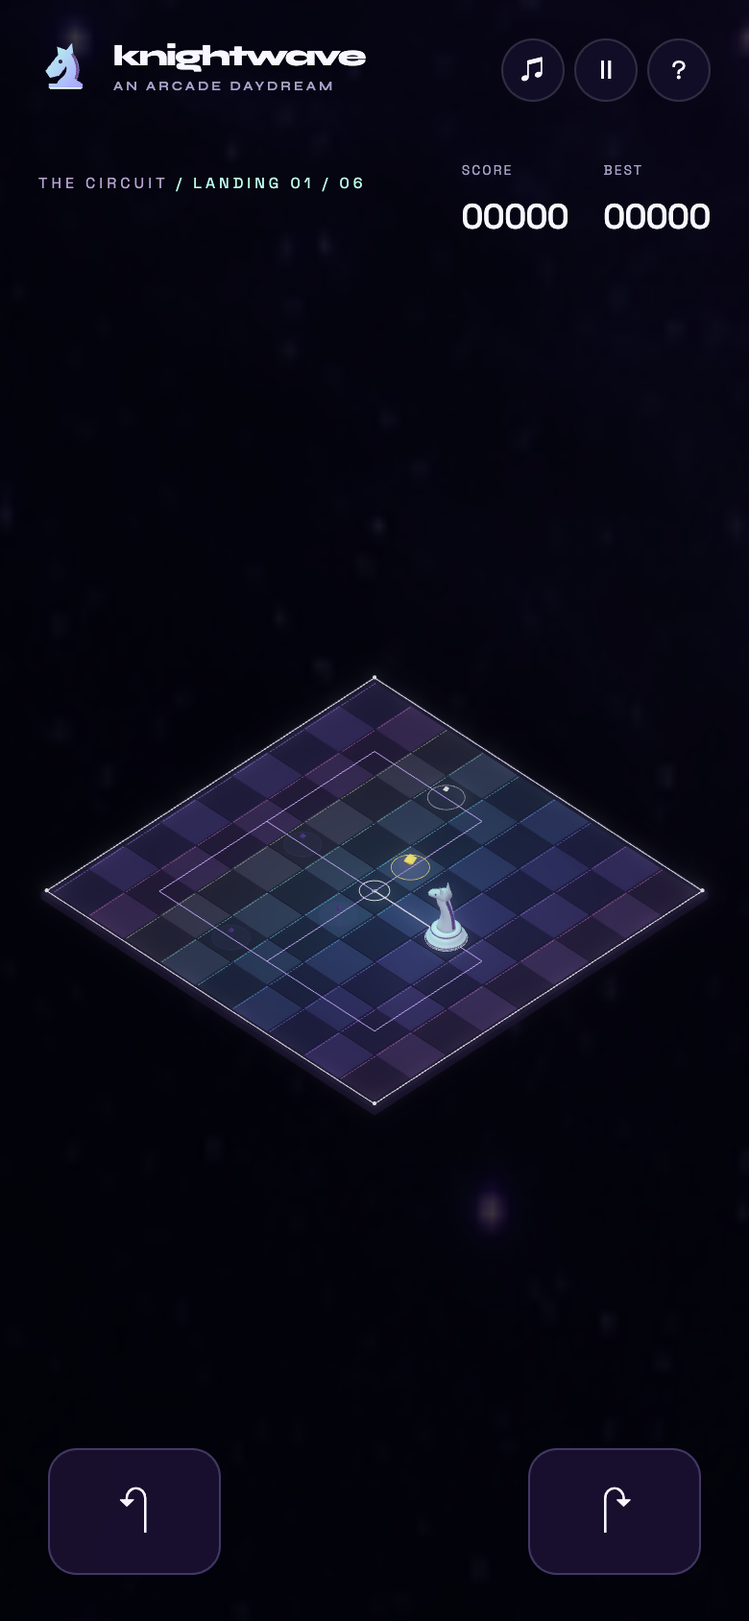
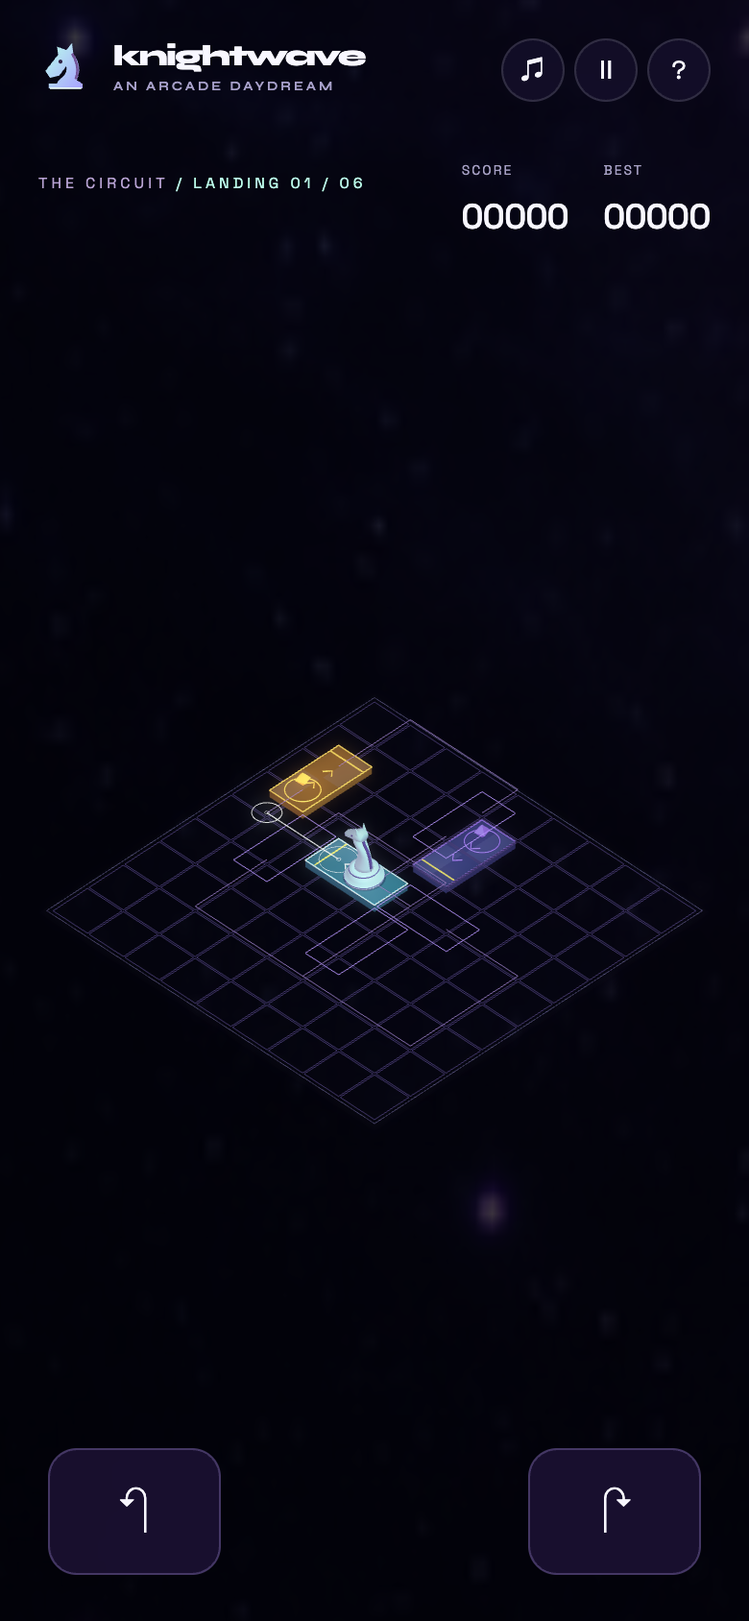
feat(game): restore continuous riding with rising and falling platforms

Changed region(s): [[0.0615, 0.4005, 0.9538, 0.7085]]

diff --git a/src/main.js b/src/main.js
@@ -17,6 +17,7 @@ import { Texture } from '@babylonjs/core/Materials/Textures/texture';
 import { ParticleSystem } from '@babylonjs/core/Particles/particleSystem';
 import { knightDestination, isLandingMatch, flightPoint, flightHeading, rotateGrid } from './rules.js';
 import { BOARD_RADIUS, CELL_SIZE, createCircuit, circuitPath, isOnBoard } from './board.js';
+import { PLATFORM_TOP, CRUISE_SPEED, platformStage, platformPose } from './platforms.js';
 import { Soundtrack } from './audio.js';
 
 const asset=name=>`${import.meta.env.BASE_URL}${name}`;
@@ -111,44 +112,68 @@ jumpSparkles.minEmitPower=2;jumpSparkles.maxEmitPower=5;jumpSparkles.gravity=new
 jumpSparkles.blendMode=ParticleSystem.BLENDMODE_ADD;jumpSparkles.emitRate=0;jumpSparkles.updateSpeed=.012;jumpSparkles.start();
 const burstPieces=[];for(let i=0;i<20;i++){const m=MeshBuilder.CreateSphere('landing sparkle',{diameter:.16,segments:5},scene);m.material=i%2?mint:gold;m.setEnabled(false);burstPieces.push({mesh:m,velocity:new Vector3(),life:0});}
 const circuit=createCircuit();
-let mode='start',phase='ready',current=0,selected=0,jumpTime=0,phaseTime=0,runTime=0,score=0,combo=0,landings=0,visualSpin=0,spinJuice=0,flash=0,airDuration=1.25,tapKick=0,pathRoot=null,lastGuideKey='';
-const READY_TIME=2.25,GROUND=.06;
+let mode='start',phase='cruise',current=0,selected=0,jumpTime=0,phaseTime=0,runTime=0,score=0,combo=0,landings=0,visualSpin=0,spinJuice=0,flash=0,airDuration=1.25,tapKick=0,pathRoot=null,lastGuideKey='',lastLanding=null;
+const GROUND=PLATFORM_TOP+.06;
 let best=0;try{best=Number(localStorage.getItem('knightwave-board-best')||0);}catch{}
 el('best').textContent=String(best).padStart(5,'0');
 const board=new TransformNode('finite chessboard',scene),boardWidth=(BOARD_RADIUS*2+1)*CELL_SIZE;
-const frame=material('board frame','#211933',.14);
-box('floating board',boardWidth+1.2,.65,boardWidth+1.2,0,-.43,0,frame,board);
-const cells=[];
-for(let z=-BOARD_RADIUS;z<=BOARD_RADIUS;z++){
-  const hue=Color3.FromHexString(palette[(z+BOARD_RADIUS)%palette.length]);
-  const light=material('light square '+z,'#332a4b',.12),darkTile=material('dark square '+z,'#211c34',.10);
-  light.diffuseColor=Color3.Lerp(light.diffuseColor,hue,.18);darkTile.diffuseColor=Color3.Lerp(darkTile.diffuseColor,hue,.10);
-  for(let x=-BOARD_RADIUS;x<=BOARD_RADIUS;x++){
-    const tile=box('board square',CELL_SIZE-.09,.17,CELL_SIZE-.09,x*CELL_SIZE,-.085,z*CELL_SIZE,(x+z)%2?light:darkTile,board);
-    tile.metadata={x,z};cells.push(tile);
-    box('rainbow tile edge',CELL_SIZE-.20,.012,.035,x*CELL_SIZE,.014,z*CELL_SIZE+CELL_SIZE*.45,roadMats[(z+BOARD_RADIUS)%7],board);
-  }
+const frame=material('board frame','#29233f',.12);frame.alpha=.08;
+box('floating board',boardWidth+1.2,.25,boardWidth+1.2,0,-2.2,0,frame,board);
+const cells=[],gridLines=[];
+for(let z=-BOARD_RADIUS;z<=BOARD_RADIUS;z++)for(let x=-BOARD_RADIUS;x<=BOARD_RADIUS;x++){
+  cells.push({x,z});const cx=x*CELL_SIZE,cz=z*CELL_SIZE,h=CELL_SIZE*.48;
+  gridLines.push([new Vector3(cx-h,-2,cz-h),new Vector3(cx+h,-2,cz-h),new Vector3(cx+h,-2,cz+h),new Vector3(cx-h,-2,cz+h),new Vector3(cx-h,-2,cz-h)]);
 }
+const grid=MeshBuilder.CreateLineSystem('hollow board squares',{lines:gridLines},scene);grid.color=Color3.FromHexString('#342b46');grid.alpha=.15;grid.parent=board;
+const borderMaterial=material('board boundary','#716487',.3);
 for(const side of [-1,1]){
-  box('rainbow board rail',boardWidth+.6,.06,.055,0,.07,side*(boardWidth/2+.28),side<0?pink:mint,board);
-  box('rainbow board rail',.055,.06,boardWidth+.6,side*(boardWidth/2+.28),.07,0,side<0?pink:mint,board);
-}
-for(const x of [-1,1])for(const z of [-1,1]){
-  const stud=MeshBuilder.CreateSphere('board corner jewel',{diameter:.32,segments:12},scene);stud.position.set(x*(boardWidth/2+.28),.12,z*(boardWidth/2+.28));stud.material=mint;stud.parent=board;
+  box('board boundary',boardWidth+.6,.035,.035,0,-1.98,side*(boardWidth/2+.28),borderMaterial,board);
+  box('board boundary',.035,.035,boardWidth+.6,side*(boardWidth/2+.28),-1.98,0,borderMaterial,board);
 }
 const routeLines=[];
-for(let i=1;i<circuit.length;i++)routeLines.push(circuitPath(circuit[i-1],circuit[i].turns).map(p=>new Vector3(p.x*CELL_SIZE,.028,p.z*CELL_SIZE)));
-const route=MeshBuilder.CreateLineSystem('complete circuit route',{lines:routeLines},scene);route.color=Color3.FromHexString('#b49bd8');route.alpha=.35;route.parent=board;
-const markers=circuit.slice(1).map((stop,i)=>{
-  const root=new TransformNode('landing '+(i+1),scene);root.position.set(stop.x*CELL_SIZE,0,stop.z*CELL_SIZE);root.parent=board;
-  const pad=MeshBuilder.CreateCylinder('landing tile',{diameter:3.1,height:.035,tessellation:48},scene);pad.position.y=.04;pad.material=material('landing surface '+i,'#8b7bba',.10);pad.material.alpha=.18;pad.parent=root;
-  const ring=MeshBuilder.CreateTorus('landing ring',{diameter:2.95,thickness:.055,tessellation:48},scene);ring.position.y=.09;ring.material=gold;ring.parent=root;
-  const crystal=MeshBuilder.CreatePolyhedron('landing crystal',{type:1,size:.30},scene);crystal.position.y=.85;crystal.material=gold;crystal.parent=root;
-  return {root,pad,ring,crystal};
+for(let i=1;i<circuit.length;i++)routeLines.push(circuitPath(circuit[i-1].launch,circuit[i].turns).map(p=>new Vector3(p.x*CELL_SIZE,PLATFORM_TOP+.10,p.z*CELL_SIZE)));
+const route=MeshBuilder.CreateLineSystem('complete circuit route',{lines:routeLines},scene);route.color=Color3.FromHexString('#79628d');route.alpha=.25;route.parent=board;
+const platformMaterials={occupied:material('riding surface','#326371',.3),target:material('amber landing surface','#825124',.35),rising:material('upcoming surface','#3c396a',.3),falling:material('departed surface','#48263c',.15)};
+const fallingAccent=material('departed platform rails','#ae6288',.25);
+const platforms=circuit.map((stop,i)=>{
+  const root=new TransformNode('platform '+i,scene);root.position.set(stop.x*CELL_SIZE,PLATFORM_TOP,stop.z*CELL_SIZE);root.rotation.y=stop.heading;root.parent=board;
+  const length=stop.runLength*CELL_SIZE;
+  const deck=box('raised platform deck',3.7,.68,length+3.7,0,-.34,length/2,platformMaterials.rising,root);
+  const trims=[];
+  for(const side of [-1,1])trims.push(box('platform glow rail',.07,.07,length+3.7,side*1.86,.03,length/2,mint,root));
+  for(const z of [-1.85,length+1.85])trims.push(box('platform end rail',3.78,.07,.075,0,.03,z,mint,root));
+  const chess=material('platform chess inlay '+i,'#cfbeee',.1);chess.alpha=.15;
+  for(let row=0;row<stop.runLength+1;row++)for(let col=0;col<2;col++)if((row+col)%2===0)box('platform chess inlay',1.75,.015,3.6,col? .9:-.9,.012,-1.75+row*CELL_SIZE+1.8,chess,root);
+  const arrows=[];
+  for(let z=1;z<length+.1;z+=2){
+    const chevron=MeshBuilder.CreateTube('forward chevron',{path:[new Vector3(-.50,.055,z-.30),new Vector3(0,.055,z+.28),new Vector3(.50,.055,z-.30)],radius:.065,tessellation:8},scene);chevron.material=mint;chevron.parent=root;arrows.push(chevron);
+  }
+  const line=box('takeoff stripe',3.55,.045,.13,0,.06,length+.9,gold,root);
+  const ring=MeshBuilder.CreateTorus('platform landing ring',{diameter:2.8,thickness:.10,tessellation:48},scene);ring.position.y=.08;ring.material=gold;ring.parent=root;
+  const crystal=MeshBuilder.CreatePolyhedron('landing beacon',{type:1,size:.48},scene);crystal.position.set(0,1.0,0);crystal.material=gold;crystal.parent=root;
+  // Permanent hollow footprints preview platforms while their decks are below the play area.
+  const corners=[[-1.86,-1.86],[1.86,-1.86],[1.86,length+1.86],[-1.86,length+1.86],[-1.86,-1.86]].map(([x,z])=>{const p=rotateGrid({x,z},stop.heading);return new Vector3(stop.x*CELL_SIZE+p.x,PLATFORM_TOP+.06,stop.z*CELL_SIZE+p.z);});
+  const footprint=MeshBuilder.CreateLines('platform footprint '+i,{points:corners},scene);footprint.parent=board;footprint.color=Color3.FromHexString('#9b7fcb');footprint.alpha=.4;
+  return {root,deck,trims,arrows,line,ring,crystal,footprint,stage:null,age:0};
 });
+function updatePlatforms(dt,reset=false){
+  for(let i=0;i<platforms.length;i++){
+    const p=platforms[i],stage=platformStage(i,current);
+    if(reset||stage!==p.stage){p.age=0;p.stage=stage;}else p.age+=dt;
+    const pose=platformPose(stage,p.age);p.root.position.y=pose.height;p.root.rotation.x=pose.tilt;p.root.setEnabled(pose.visible);
+    const active=stage==='target',occupied=stage==='occupied',accent=active?gold:occupied?mint:stage==='falling'?fallingAccent:roadMats[1];
+    p.deck.material=platformMaterials[active?'target':occupied?'occupied':stage==='falling'?'falling':'rising'];
+    for(const mesh of [...p.trims,...p.arrows,p.ring])mesh.material=accent;
+    p.crystal.setEnabled(active||stage==='rising');p.crystal.material=active?gold:roadMats[1];
+    p.crystal.rotation.y+=dt;p.crystal.position.y=1.05+Math.sin(runTime*3+i)*.15;
+    p.ring.setEnabled(!occupied);p.ring.scaling.setAll(active?1+Math.sin(runTime*3)*.04:1);
+    p.footprint.setEnabled(i!==platforms.length-1||current>=3);
+    p.footprint.color=Color3.FromHexString(active?'#ffc45a':occupied?'#8dffe1':'#9b7fcb');p.footprint.alpha=stage==='falling'?.12:active?.85:.35;
+  }
+}
 const landingPreview=MeshBuilder.CreateTorus('your landing preview',{diameter:2.4,thickness:.075,tessellation:48},scene);landingPreview.material=mint;landingPreview.setEnabled(false);
 const launchRing=MeshBuilder.CreateTorus('takeoff countdown',{diameter:3.2,thickness:.045,tessellation:48},scene);launchRing.material=mint;launchRing.position.y=.08;launchRing.setEnabled(false);
-const visitedMaterial=material('completed landing','#75efde',.20),missMaterial=material('missed landing','#ff7fa8',.5);
+const missMaterial=material('missed landing','#ff7fa8',.5);
 function worldCell(cell){return new Vector3(cell.x*CELL_SIZE,GROUND,cell.z*CELL_SIZE);}
 function fitBoardCamera(){
   const width=window.innerWidth,height=window.innerHeight,aspect=width/height,narrow=width<700;
@@ -164,24 +189,13 @@ function fitBoardCamera(){
 }
 function visible(id,on){el(id).classList.toggle('hidden',!on);}
 function setMode(next){mode=next;el('ui').className=mode==='start'?'start-mode':'playing-mode';visible('start-screen',mode==='start');visible('pause',mode==='playing'||mode==='paused');visible('run-label',mode!=='start');visible('touch-controls',mode==='playing');}
-function updateMarkers(){
-  for(let i=0;i<markers.length;i++){
-    const m=markers[i],completed=i<current,active=i===current;
-    m.root.setEnabled(i!==markers.length-1||current>=3);
-    m.ring.material=completed?visitedMaterial:active?gold:i===current+1?mint:purple;
-    m.ring.visibility=completed?.55:active?1:i===current+1?.65:.28;
-    m.pad.material.alpha=active?.36:completed?.16:.08;
-    m.crystal.setEnabled(!completed);m.crystal.material=active?gold:i===current+1?mint:purple;
-    m.crystal.scaling.setAll(active?1.35:.65);
-  }
-}
 function start(){
-  current=0;selected=0;score=0;combo=0;landings=0;runTime=0;jumpTime=0;phaseTime=0;phase='ready';visualSpin=0;
+  current=0;lastLanding=null;selected=0;score=0;combo=0;landings=0;runTime=0;jumpTime=0;phaseTime=0;phase='cruise';visualSpin=0;
   spinner.rotation.set(0,FORWARD_YAW,0);tapKick=0;jumpSparkles.reset();jumpSparkles.start();airDuration=1.25;knight.position.copyFrom(worldCell(circuit[0]));
-  el('score').textContent='00000';visible('modal',false);setMode('playing');audio.start().catch(()=>{});lastGuideKey='';updateGuides();updateMarkers();fitBoardCamera();
+  el('score').textContent='00000';visible('modal',false);setMode('playing');audio.start().catch(()=>{});lastGuideKey='';updateGuides();updatePlatforms(0,true);fitBoardCamera();
 }
 function chosenCell(){
-  const origin=circuit[current],offset=rotateGrid(selected===0?{x:0,z:2}:knightDestination(selected),origin.heading);
+  const origin=circuit[current].launch,offset=rotateGrid(selected===0?{x:0,z:2}:knightDestination(selected),origin.heading);
   return {x:origin.x+offset.x,z:origin.z+offset.z};
 }
 function updateGuides(){
@@ -189,30 +203,30 @@ function updateGuides(){
   el('jump-label').textContent='LANDING '+String(Math.min(landings+1,6)).padStart(2,'0')+' / 06';
   const key=current+':'+selected;if(key===lastGuideKey)return;lastGuideKey=key;
   pathRoot?.dispose(false,false);pathRoot=new TransformNode('selected L route',scene);
-  const origin=circuit[current];
+  const origin=circuit[current].launch;
   const points=selected===0?[origin,{x:origin.x+Math.sin(origin.heading)*2,z:origin.z+Math.cos(origin.heading)*2}]:circuitPath(origin,selected);
-  const line=MeshBuilder.CreateTube('selected knight trace',{path:points.map(p=>new Vector3(p.x*CELL_SIZE,.07,p.z*CELL_SIZE)),radius:.045,tessellation:8},scene);line.material=mint;line.parent=pathRoot;
-  for(const p of points){const dot=MeshBuilder.CreateTorus('L corner',{diameter:.35,thickness:.04,tessellation:24},scene);dot.position.set(p.x*CELL_SIZE,.075,p.z*CELL_SIZE);dot.material=mint;dot.parent=pathRoot;}
-  landingPreview.position.copyFrom(worldCell(chosenCell()));landingPreview.position.y=.10;landingPreview.material=isOnBoard(chosenCell())?mint:missMaterial;landingPreview.setEnabled(true);
+  const line=MeshBuilder.CreateTube('selected knight trace',{path:points.map(p=>new Vector3(p.x*CELL_SIZE,PLATFORM_TOP+.12,p.z*CELL_SIZE)),radius:.045,tessellation:8},scene);line.material=mint;line.parent=pathRoot;
+  for(const p of points){const dot=MeshBuilder.CreateTorus('L corner',{diameter:.35,thickness:.04,tessellation:24},scene);dot.position.set(p.x*CELL_SIZE,PLATFORM_TOP+.13,p.z*CELL_SIZE);dot.material=mint;dot.parent=pathRoot;}
+  landingPreview.position.copyFrom(worldCell(chosenCell()));landingPreview.position.y=PLATFORM_TOP+.14;landingPreview.material=isOnBoard(chosenCell())?mint:missMaterial;landingPreview.setEnabled(true);
 }
 function turn(dir){
-  if(mode!=='playing'||!['ready','air'].includes(phase))return;
+  if(mode!=='playing'||!['cruise','air'].includes(phase))return;
   selected+=dir;spinJuice=1;tapKick=dir*.32;
   if(phase==='air'){visualSpin+=dir*.80;spinner.rotation.y=FORWARD_YAW+circuit[current].heading+visualSpin;}
   else{spinner.rotation.y=FORWARD_YAW+circuit[current].heading+tapKick;spinner.rotation.z=-dir*.12;}
   audio.spin(selected);updateGuides();
   const button=el(dir<0?'left':'right');button.classList.add('pressed');setTimeout(()=>button.classList.remove('pressed'),90);
 }
-knight.position.copyFrom(worldCell(circuit[0]));updateMarkers();fitBoardCamera();
+knight.position.copyFrom(worldCell(circuit[0]));updatePlatforms(0,true);fitBoardCamera();
 function modal(content){el('modal').innerHTML=`<div class="dialog" role="dialog" aria-modal="true" aria-labelledby="dialog-title">${content}</div>`;visible('modal',true);el('modal').querySelector('button')?.focus();}
 function pause(){if(mode==='playing'){setMode('paused');audio.stop();modal('<div class="eyebrow">TAKE A BREATHER</div><h2 id="dialog-title">Still in the groove.</h2><p>Your circuit will be right here.</p><button class="primary" id="resume">Keep riding <span>↗</span></button><button class="secondary" id="restart">Start a fresh run</button>');el('resume').onclick=resume;el('restart').onclick=start;}else if(mode==='paused')resume();}
 function resume(){visible('modal',false);setMode('playing');audio.start().catch(()=>{});el('world').focus();}
 function help(){const previous=mode;if(mode==='playing'){setMode('paused');audio.stop();}
-  modal('<div class="eyebrow">A KNIGHT TO REMEMBER</div><h2 id="dialog-title">Plan the whole loop.</h2><div class="how-steps"><span class="number">1</span><p>The whole board stays in view. Reach the gold landing, then follow the next glowing tiles back home.</p></div><div class="how-steps"><span class="number">2</span><p>Jumps launch automatically after a short planning beat. Tap ← or → to choose your next move. On your phone, tap the left or right half of the play area.</p></div><div class="how-steps"><span class="number">3</span><p>Each tap chains a rotated L: two squares forward, one across. The mint route and ring preview your jump. Four taps make a loop.</p></div><div class="how-steps"><span class="number">4</span><p>You can keep tapping in midair. An opposite tap undoes a turn. The mint marker shows your landing.</p></div><button class="primary" id="close-help">Got it <span>↗</span></button>');el('close-help').onclick=()=>{visible('modal',false);if(previous==='playing')resume();};}
+  modal('<div class="eyebrow">A KNIGHT TO REMEMBER</div><h2 id="dialog-title">Plan the whole loop.</h2><div class="how-steps"><span class="number">1</span><p>The whole board stays in view. Ride the raised platforms. The amber deck is your next landing; purple outlines show platforms still to come.</p></div><div class="how-steps"><span class="number">2</span><p>The knight moves forward continuously and jumps at each platform edge. New platforms rise ahead, and old ones fall behind. Tap ← or → to choose your next move. On your phone, tap the left or right half of the play area.</p></div><div class="how-steps"><span class="number">3</span><p>Each tap chains a rotated L: two squares forward, one across. The mint route and ring preview your jump. Four taps make a loop.</p></div><div class="how-steps"><span class="number">4</span><p>You can keep tapping in midair. An opposite tap undoes a turn. The mint marker shows your landing.</p></div><button class="primary" id="close-help">Got it <span>↗</span></button>');el('close-help').onclick=()=>{visible('modal',false);if(previous==='playing')resume();};}
 function finish(won=false){
   setMode(won?'won':'over');jumpSparkles.emitRate=0;landingPreview.setEnabled(false);launchRing.setEnabled(false);pathRoot?.setEnabled(false);
   if(score>best){best=score;try{localStorage.setItem('knightwave-board-best',String(best));}catch{}el('best').textContent=String(best).padStart(5,'0');}
-  modal(`<div class="eyebrow">${won?'A PERFECT LITTLE LOOP':'THE BOARD WILL WAIT'}</div><h2 id="dialog-title">${won?'Circuit complete.':'One more circuit?'}</h2><p>${won?'Six landings, all the way home. You found your flow.':'Follow the gold tile. Use the mint L to plan your landing, and correct your turn before touchdown.'}</p><div class="dialog-stats"><div><strong>${score}</strong><small>YOUR SCORE</small></div><div><strong>${landings} / 6</strong><small>LANDINGS</small></div></div><button class="primary" id="again">Ride again <span>↗</span></button>`);el('again').onclick=start;
+  modal(`<div class="eyebrow">${won?'A PERFECT LITTLE LOOP':'THE BOARD WILL WAIT'}</div><h2 id="dialog-title">${won?'Circuit complete.':'One more circuit?'}</h2><p>${won?'Six landings, all the way home. You found your flow.':'Aim for the amber platform. Follow the mint L and correct your turn before touchdown.'}</p><div class="dialog-stats"><div><strong>${score}</strong><small>YOUR SCORE</small></div><div><strong>${landings} / 6</strong><small>LANDINGS</small></div></div><button class="primary" id="again">Ride again <span>↗</span></button>`);el('again').onclick=start;
 }
 el('start').onclick=start;el('help').onclick=help;el('pause').onclick=pause;
 function mute(){el('sound').textContent=audio.mute()?'♪̸':'♫';el('sound').setAttribute('aria-label',audio.muted?'Unmute soundtrack':'Mute soundtrack');el('sound').setAttribute('aria-pressed',String(audio.muted));}
@@ -231,39 +245,46 @@ function update(dt){
   if(mode==='playing'){
     runTime+=dt;phaseTime+=dt;spinJuice=Math.max(0,spinJuice-dt*4);tapKick*=Math.exp(-dt*14);
     const origin=circuit[current];
-    if(phase==='ready'){
-      knight.position.y=GROUND;spinner.rotation.y=FORWARD_YAW+origin.heading+tapKick;spinner.rotation.z=-tapKick*.25;spinner.rotation.x=0;
-      launchRing.setEnabled(true);launchRing.position.copyFrom(knight.position);launchRing.position.y=.09;launchRing.scaling.setAll(.65+.45*(1-Math.min(1,phaseTime/READY_TIME)));
-      if(phaseTime>=READY_TIME){phase='air';jumpTime=0;airDuration=1.25+.30*(Math.abs(circuit[current+1].turns)-1);phaseTime=0;visualSpin=0;burst();launchRing.setEnabled(false);}
+    if(phase==='cruise'){
+      const distance=Math.min(origin.runLength*CELL_SIZE,phaseTime*CRUISE_SPEED),offset=rotateGrid({x:0,z:distance},origin.heading);
+      knight.position.set(origin.x*CELL_SIZE+offset.x,GROUND+Math.sin(distance*2.6)*.025,origin.z*CELL_SIZE+offset.z);
+      spinner.rotation.y=FORWARD_YAW+origin.heading+tapKick;spinner.rotation.z=-tapKick*.25;spinner.rotation.x=-.06+Math.sin(distance*2.6)*.035;
+      launchRing.setEnabled(true);launchRing.position.copyFrom(worldCell(origin.launch));launchRing.position.y=PLATFORM_TOP+.1;launchRing.scaling.setAll(.65+.45*(1-Math.min(1,phaseTime*CRUISE_SPEED/(circuit[current].runLength*CELL_SIZE))));
+      if(distance>=origin.runLength*CELL_SIZE){phase='air';jumpTime=0;airDuration=1.25+.30*(Math.abs(circuit[current+1].turns)-1);phaseTime=0;visualSpin=0;burst();launchRing.setEnabled(false);}
     }else if(phase==='air'){
       jumpTime+=dt;const t=Math.min(1,jumpTime/airDuration),p=rotateGrid(flightPoint(selected,t),origin.heading);
-      knight.position.x=(origin.x+p.x)*CELL_SIZE;knight.position.z=(origin.z+p.z)*CELL_SIZE;
+      knight.position.x=(origin.launch.x+p.x)*CELL_SIZE;knight.position.z=(origin.launch.z+p.z)*CELL_SIZE;
       knight.position.y=GROUND+Math.sin(t*Math.PI)*3.0;
       visualSpin+=wrapAngle(flightHeading(selected,t)-visualSpin)*(1-Math.exp(-dt*24));spinner.rotation.y=FORWARD_YAW+origin.heading+visualSpin;
       spinner.rotation.z=Math.sin(t*Math.PI)*.08*Math.sign(selected);spinner.rotation.x=Math.sin(t*Math.PI)*.12;
       if(t===1){
         knight.position.copyFrom(worldCell(chosenCell()));
         if(isLandingMatch(selected,circuit[current+1].turns)){
-          current++;landings++;combo++;score+=100+combo*25+Math.abs(selected)*10;el('score').textContent=String(score).padStart(5,'0');
-          burst();flash=1;audio.land(combo);selected=0;visualSpin=0;spinner.rotation.set(0,FORWARD_YAW+circuit[current].heading,0);updateMarkers();
+          lastLanding={x:knight.position.x,y:knight.position.y,z:knight.position.z};current++;landings++;combo++;score+=100+combo*25+Math.abs(selected)*10;el('score').textContent=String(score).padStart(5,'0');
+          burst();flash=1;audio.land(combo);selected=0;visualSpin=0;spinner.rotation.set(0,FORWARD_YAW+circuit[current].heading,0);updatePlatforms(0);
           if(current===circuit.length-1){finish(true);}
-          else{phase='ready';phaseTime=0;lastGuideKey='';updateGuides();}
-        }else{phase=isOnBoard(chosenCell())?'miss':'fall';phaseTime=0;audio.fall();landingPreview.material=missMaterial;pathRoot?.setEnabled(false);}
+          else{phase='cruise';phaseTime=0;lastGuideKey='';updateGuides();}
+        }else{phase='fall';phaseTime=0;audio.fall();landingPreview.material=missMaterial;pathRoot?.setEnabled(false);}
       }
-    }else if(phase==='miss'){spinner.rotation.z*=Math.exp(-dt*8);if(phaseTime>.65)finish();}
-    else if(phase==='fall'){knight.position.y-=dt*(6+phaseTime*12);if(phaseTime>.70)finish();}
+    }else if(phase==='fall'){knight.position.y-=dt*(6+phaseTime*12);if(phaseTime>.70)finish();}
   }
-  if(mode==='playing'||mode==='start'){
+  if(mode==='playing'||mode==='start'||mode==='won'){
+    updatePlatforms(dt);
     glow.intensity=.43+audio.pulse*.10;
-    shadow.position.set(knight.position.x,.012,knight.position.z);shadow.scaling.setAll(Math.max(.6,1.55-(knight.position.y-GROUND)*.10));shadow.setEnabled(isOnBoard({x:knight.position.x/CELL_SIZE,z:knight.position.z/CELL_SIZE}));
-    for(let i=0;i<markers.length;i++){const m=markers[i];m.crystal.rotation.y+=dt*.65;m.crystal.position.y=.85+Math.sin(runTime*2+i)*.12;m.ring.scaling.setAll(i===current?1+Math.sin(runTime*3)*.04:1);}
+    shadow.position.set(knight.position.x,PLATFORM_TOP+.018,knight.position.z);shadow.scaling.setAll(Math.max(.6,1.55-(knight.position.y-GROUND)*.10));
+    shadow.setEnabled(phase!=='fall'&&platforms.some((p,i)=>{
+      if(!p.root.isEnabled()||p.stage==='falling'||p.root.position.y<PLATFORM_TOP-.1)return false;
+      const stop=circuit[i],local=rotateGrid({x:knight.position.x-stop.x*CELL_SIZE,z:knight.position.z-stop.z*CELL_SIZE},-stop.heading);
+      return Math.abs(local.x)<1.85&&local.z>-1.85&&local.z<stop.runLength*CELL_SIZE+1.85;
+    }));
+
     for(const p of burstPieces){if(p.life>0){p.life-=dt;p.mesh.position.addInPlace(p.velocity.scale(dt));p.velocity.y-=dt*12;p.mesh.scaling.setAll(Math.max(0,p.life/.6));if(p.life<=0)p.mesh.setEnabled(false);}}
     flash=Math.max(0,flash-dt*3.5);el('flash').style.opacity=flash*.35;
   }
 }
 engine.runRenderLoop(()=>{update(Math.min(engine.getDeltaTime()/1000,.05));scene.render();});
 scene.executeWhenReady(()=>{visible('loading',false);});
-const state=()=>({mode,phase,selected,target:circuit[current+1]?.turns,jump:landings+1,score,combo,landings,totalLandings:circuit.length-1,position:{x:knight.position.x,y:knight.position.y,z:knight.position.z},planning:Math.min(1,phaseTime/READY_TIME),airtime:jumpTime/airDuration,audio:{state:audio.ctx?.state,muted:audio.muted,steps:audio.step},fps:Math.round(engine.getFps()),meshes:scene.meshes.length,cellSize:CELL_SIZE,board:{radius:BOARD_RADIUS,cells:cells.length,extent:boardWidth/2},heading:circuit[current]?.heading,landingHeading:circuit[current+1]?.heading,launch:{x:circuit[current].x*CELL_SIZE,z:circuit[current].z*CELL_SIZE},landing:circuit[current+1]?{x:circuit[current+1].x*CELL_SIZE,z:circuit[current+1].z*CELL_SIZE}:null,render:{width:engine.getRenderWidth(),height:engine.getRenderHeight()},camera:{x:camera.position.x,y:camera.position.y,z:camera.position.z,rotation:{x:camera.rotation.x,y:camera.rotation.y,z:camera.rotation.z},orthographic:camera.mode===Camera.ORTHOGRAPHIC_CAMERA},knightYaw:spinner.rotation.y,sparkles:jumpSparkles.getActiveCount()});
+const state=()=>({mode,phase,selected,target:circuit[current+1]?.turns,jump:landings+1,score,combo,landings,totalLandings:circuit.length-1,lastLanding,position:{x:knight.position.x,y:knight.position.y,z:knight.position.z},planning:Math.min(1,phaseTime*CRUISE_SPEED/(circuit[current].runLength*CELL_SIZE)),airtime:jumpTime/airDuration,audio:{state:audio.ctx?.state,muted:audio.muted,steps:audio.step},fps:Math.round(engine.getFps()),meshes:scene.meshes.length,cellSize:CELL_SIZE,board:{radius:BOARD_RADIUS,cells:cells.length,extent:boardWidth/2},heading:circuit[current]?.heading,landingHeading:circuit[current+1]?.heading,launch:{x:circuit[current].launch.x*CELL_SIZE,z:circuit[current].launch.z*CELL_SIZE},landing:circuit[current+1]?{x:circuit[current+1].x*CELL_SIZE,z:circuit[current+1].z*CELL_SIZE}:null,render:{width:engine.getRenderWidth(),height:engine.getRenderHeight()},platforms:platforms.map((p,i)=>({index:i,stage:p.stage,height:p.root.position.y,visible:p.root.isEnabled()})),speed:CRUISE_SPEED,camera:{x:camera.position.x,y:camera.position.y,z:camera.position.z,rotation:{x:camera.rotation.x,y:camera.rotation.y,z:camera.rotation.z},orthographic:camera.mode===Camera.ORTHOGRAPHIC_CAMERA},knightYaw:spinner.rotation.y,sparkles:jumpSparkles.getActiveCount()});
 // Observability for playtesting; actions are the same as keyboard and touch.
 window.knightwave={state,start,turn,pause,resume,mute,engine,scene};
 if(document.modelContext?.registerTool){

diff --git a/src/board.test.js b/src/board.test.js
@@ -5,21 +5,29 @@ import {flightPoint, rotateGrid} from './rules.js';
 
 test('six chained jumps form a closed circuit with the original facing',()=>{
   const stops=createCircuit();
-  assert.deepEqual(stops.map(p=>p.turns),[0,1,-1,-2,2,3,-3]);
+  assert.deepEqual(stops.map(p=>p.turns),[0,1,2,-1,3,-2,-3]);
   assert.deepEqual([stops.at(-1).x,stops.at(-1).z],[stops[0].x,stops[0].z]);
   assert.equal(stops.at(-1).heading,stops[0].heading);
 });
 test('every landing and intermediate L leg stays inside the finite board',()=>{
   const stops=createCircuit();
   for(let i=1;i<stops.length;i++){
-    const start=stops[i-1],end=stops[i],path=circuitPath(start,end.turns);
+    const start=stops[i-1],end=stops[i],path=circuitPath(start.launch,end.turns);
     assert.deepEqual(path.at(-1),{x:end.x,z:end.z});
-    for(const p of path)assert.ok(isOnBoard(p));
+    for(const p of [start,start.launch,...path])assert.ok(isOnBoard(p));
     for(let frame=0;frame<=100;frame++){
       const offset=rotateGrid(flightPoint(end.turns,frame/100),start.heading);
-      assert.ok(isOnBoard({x:start.x+offset.x,z:start.z+offset.z}));
+      assert.ok(isOnBoard({x:start.launch.x+offset.x,z:start.launch.z+offset.z}));
     }
   }
   assert.ok(isOnBoard({x:BOARD_RADIUS,z:-BOARD_RADIUS}));
   assert.ok(!isOnBoard({x:BOARD_RADIUS+.01,z:0}));
+});
+
+test('raised runways do not intersect while upcoming platforms rise',()=>{
+  const rectangles=createCircuit().slice(0,-1).map(p=>({left:Math.min(p.x,p.launch.x)-.4625,right:Math.max(p.x,p.launch.x)+.4625,bottom:Math.min(p.z,p.launch.z)-.4625,top:Math.max(p.z,p.launch.z)+.4625}));
+  for(let i=0;i<rectangles.length;i++)for(const b of rectangles.slice(0,i)){
+    const a=rectangles[i];
+    assert.ok(!(a.left<b.right&&a.right>b.left&&a.bottom<b.top&&a.top>b.bottom));
+  }
 });

diff --git a/src/board.js b/src/board.js
@@ -2,26 +2,27 @@ import {knightPath,rotateGrid,roadLanding} from './rules.js';
 
 export const BOARD_RADIUS=4;
 export const CELL_SIZE=4;
-export const CIRCUIT_TURNS=[1,-1,-2,2,3,-3];
-
-// A closed circuit whose landings AND every L-shaped leg fit on the board.
+export const CIRCUIT_TURNS=[1,2,-1,3,-2,-3];
+// Every platform has a one-square run-up; the raised decks never intersect.
 export function createCircuit(){
-  const stops=[{x:0,z:-2,heading:0,turns:0}];
-  for(const turns of CIRCUIT_TURNS){
-    const previous=stops.at(-1);
-    const next=roadLanding({end:previous,heading:previous.heading},turns,1);
-    stops.push({...next,turns});
+  const stops=[{x:0,z:0,heading:0,turns:0}];
+  for(let i=0;i<=CIRCUIT_TURNS.length;i++){
+    const stop=stops[i],offset=rotateGrid({x:0,z:1},stop.heading);
+    stop.runLength=1;
+    stop.launch={x:stop.x+offset.x,z:stop.z+offset.z,heading:stop.heading};
+    if(i<CIRCUIT_TURNS.length){
+      const turns=CIRCUIT_TURNS[i];
+      stops.push({...roadLanding({end:stop.launch,heading:stop.heading},turns,1),turns});
+    }
   }
   return stops;
 }
-
 export function circuitPath(start,turns){
   return knightPath(turns).map(point=>{
     const offset=rotateGrid(point,start.heading);
     return {x:start.x+offset.x,z:start.z+offset.z};
   });
 }
-
 export function isOnBoard(point){
   return Math.abs(point.x)<=BOARD_RADIUS&&Math.abs(point.z)<=BOARD_RADIUS;
 }

diff --git a/src/platforms.test.js b/src/platforms.test.js
@@ -1,0 +1,16 @@
+import {test} from 'node:test';
+import assert from 'node:assert/strict';
+import {PLATFORM_TOP, platformStage, platformPose} from './platforms.js';
+test('upcoming platforms rise before becoming a target, and departed platforms fall away',()=>{
+  assert.equal(platformStage(3,0),'future');assert.equal(platformStage(3,1),'rising');
+  assert.equal(platformStage(3,2),'target');assert.equal(platformStage(3,3),'occupied');assert.equal(platformStage(3,4),'falling');
+  assert.ok(platformPose('rising',0).height<PLATFORM_TOP-6);
+  assert.ok(platformPose('rising',.3).height>platformPose('rising',0).height);
+  assert.equal(platformPose('rising',.85).height,PLATFORM_TOP);
+  assert.equal(platformPose('target',0).height,PLATFORM_TOP);
+  assert.equal(platformPose('occupied',0).height,PLATFORM_TOP);
+  assert.equal(platformPose('falling',0).height,PLATFORM_TOP);
+  assert.ok(platformPose('falling',.5).height<platformPose('falling',.1).height);
+  assert.equal(platformPose('falling',1.2).visible,false);
+  assert.equal(platformPose('future',0).visible,false);
+});

diff --git a/index.html b/index.html
@@ -1,2 +1,2 @@
 <!doctype html>
-<html lang="en"><head><meta charset="UTF-8"><meta name="viewport" content="width=device-width, initial-scale=1, viewport-fit=cover"><meta name="theme-color" content="#0b0922"><meta name="description" content="Catch the beat. Spin the knight. Ride a shimmering rainbow road through the stars."><title>Knightwave — Ride the rhythm</title><link rel="icon" type="image/svg+xml" href="./favicon.svg"></head><body><div id="app"></div><script type="module" src="/src/main.js"></script></body></html>
+<html lang="en"><head><meta charset="UTF-8"><meta name="viewport" content="width=device-width, initial-scale=1, viewport-fit=cover"><meta name="theme-color" content="#0b0922"><meta name="description" content="Ride rising platforms across a neon chessboard. Chain L jumps, catch the beat and bring your knight home."><title>Knightwave — Ride the rhythm</title><link rel="icon" type="image/svg+xml" href="./favicon.svg"></head><body><div id="app"></div><script type="module" src="/src/main.js"></script></body></html>

diff --git a/src/platforms.js b/src/platforms.js
@@ -1,0 +1,14 @@
+export const PLATFORM_TOP=.8;
+export const CRUISE_SPEED=5.2;
+const clamp=value=>Math.max(0,Math.min(1,value));
+export function platformStage(index,current){
+  return index<current?'falling':index===current?'occupied':index===current+1?'target':index===current+2?'rising':'future';
+}
+export function platformPose(stage,age){
+  if(stage==='falling')return {height:PLATFORM_TOP-3*age-8*age*age,tilt:age*.20,visible:age<1.1};
+  if(stage==='rising'){
+    const t=clamp(age/.85),ease=1-(1-t)**3;
+    return {height:PLATFORM_TOP-7*(1-ease),tilt:0,visible:true};
+  }
+  return {height:stage==='future'?PLATFORM_TOP-7:PLATFORM_TOP,tilt:0,visible:stage!=='future'};
+}

diff --git a/README.md b/README.md
@@ -1,6 +1,6 @@
 # Knightwave
 
-A playable Babylon.js chess arcade game: a sculpted porcelain knight, a finite rainbow chessboard, chained L-shaped jumps, and an original 160 BPM soundtrack.
+A playable Babylon.js chess arcade game: a sculpted porcelain knight, rising and falling neon platforms on a finite chess grid, chained L-shaped jumps, and an original 160 BPM soundtrack.
 
 ## Open in your browser
 
@@ -17,20 +17,20 @@ Open the printed local URL. `npm run build` produces the standalone browser game
 
 ## Play
 
-- Complete six landings and return home on a bounded 9×9 board. The entire board stays visible, with a faint complete route, an amber active target and mint jump preview.
-- Each jump launches automatically after a 2.25-second planning beat. A shrinking ring shows the time remaining.
-- Tap Left/Right or A/D while planning or in midair. On a phone, use the left/right half of the play area or the visible turn buttons. Inputs update the route and knight pose in the same event handler.
+- Complete six landings and return home on a bounded 9×9 board. The entire board stays visible, with hollow platform outlines, an amber landing deck and a mint jump preview.
+- The knight rides forward along each raised platform at 5.2 world units per second and jumps automatically at its edge. Chevrons show its direction; a shrinking takeoff ring shows when the next jump begins.
+- Tap Left/Right or A/D during a run-up or in midair. On a phone, use the left/right half of the play area or the visible turn buttons. Inputs update the route and knight pose in the same event handler.
 - Each tap chains a quarter-turned chess knight move. Right destinations in grid units are `(1,2)`, `(3,1)`, `(2,-1)`, then `(0,0)`. Left mirrors the horizontal coordinate. The knight faces the final leg after landing, and the next jump uses that direction. The camera stays fixed.
 - The mint L shows every leg: two squares forward, one across. The ring marks your selected landing. Opposite taps undo turns; corrections remain available until touchdown.
 - Space starts/pauses; Escape pauses/resumes; M toggles sound. A miss ends the attempt; six correct landings complete the circuit. Both offer immediate retry.
-- The circuit uses one, two and three chained turns in both directions. Every intermediate leg fits on the board. The circuit and geometry live in `src/board.js`.
+- The circuit uses one, two and three chained turns in both directions. Every intermediate leg fits on the board, and raised runway decks do not intersect. The circuit and geometry live in `src/board.js`.
 - The best circuit score is stored on this device under `knightwave-board-best` when browser storage is available.
 
 ## Graphics and audio
 
 The knight is a real 3D mesh with a sculpted neck and muzzle, paired ears, eyes, carved mane and turned chess pedestal. Its facing follows the actual L-shaped motion. The camera has a fixed orthographic projection, a roughly 41° elevation and 45° azimuth. It never rotates or follows the knight. Responsive framing fits the whole board between the header and controls, leaving room to plan ahead.
 
-Four-unit squares, landing markers, selected paths and actual flight share the same coordinate frame. Thin rainbow edges, glowing rails and crystals identify the finite play area. Rendering uses the display pixel ratio up to 2×. Jump sparkles use a dedicated star texture and particle system. The mark and favicon are hand-drawn SVG assets.
+Four-unit squares, landing decks, selected paths and actual flight share the same coordinate frame. Amber platforms show the next safe landing, mint identifies the platform being ridden, and purple platforms rise ahead. Permanent hollow footprints preview future decks. Platforms rise over 0.85 seconds; departed decks accelerate downward and disappear after 1.1 seconds. A subdued grid shows the finite play area without suggesting that empty squares can be landed on. Rendering uses the display pixel ratio up to 2×. Jump sparkles use a dedicated star texture and particle system. The mark and favicon are hand-drawn SVG assets.
 
 `public/cosmic-sky.png` is an original background created with the built-in imagegen tool. Prompt: “Use case: stylized-concept. Asset type: seamless-looking panoramic cosmic sky background texture for a neon rainbow-road 3D arcade game. Create a premium game art starfield, landscape 3:2 composition. Deep midnight navy and aubergine space, delicate faraway stars as fine pinpoints, flowing violet and lavender nebula clouds with a tiny soft teal aurora on the right, subtly shimmering dust. Rich, dreamy, euphoric and uplifting, painterly atmospheric sci-fi game skybox art. Keep overall dark and low contrast so the bright gameplay road reads clearly. Nebula details strongest at outer edges, quieter spacious center. No planets, no road, no characters, no chess pieces, no foreground objects, no typography, no UI, no watermark. Intended to be placed behind separately rendered 3D planets and game graphics.”
 
@@ -38,14 +38,14 @@ The original soundtrack, *Stardust Overdrive*, is synthesized in Web Audio: four
 
 ## Verification
 
-`npm test` checks chained movement, mirrored turns, corrections, exact L trajectories, rotated landing directions, circuit closure and every intermediate leg staying on the board.
+`npm test` checks chained movement, mirrored turns, corrections, exact L trajectories, rotated landing directions, circuit closure, bounded paths, nonintersecting runways and platform rise/fall lifecycles.
 
-`node verify.mjs` completes the six-jump circuit on desktop and touch-controlled phone viewports. It checks exact landing positions, a fixed orthographic camera, return to the starting position, victory, midair corrections, planning and flight pause/resume, sparkles, mute, misses, restart, help, removal of the tap-count overlay and high-resolution phone rendering. The Chrome executable path currently targets macOS.
+`node verify.mjs` completes the six-jump circuit on desktop and touch-controlled phone viewports. It checks exact landing positions, a fixed orthographic camera, return to the starting position, victory, midair corrections, run-up and flight pause/resume, sparkles, mute, misses, restart, help, removal of the tap-count overlay and high-resolution phone rendering. It also verifies continuous travel during run-ups, upcoming platforms rising and departed platforms falling, with motion frozen during pause. The Chrome executable path currently targets macOS.
 
 `node mobilecheck.mjs` checks same-event touch feedback, header controls, landing, pause/resume and landscape layout. Phone browser emulation is not a physical-device benchmark.
 
-`node visualcheck.mjs` plays the complete circuit on desktop and phone, records videos, and captures launch, middle and landing frames for single and multiple turns in both directions. Every animation frame checks that the whole board and knight stay visible, the camera remains unchanged and the landing stays on screen. Captures and a JSON report go to `/tmp/knightwave-visual`. Set `KNIGHTWAVE_URL` to check the public deployment with any browser script, and `KNIGHTWAVE_CAPTURES` to change the visual output directory.
+`node visualcheck.mjs` plays the complete circuit on desktop and phone, records videos, and captures every jump at launch, middle and landing, plus run-up frames showing platforms rising and falling. Every animation frame checks that the whole board and knight stay visible, the camera remains unchanged and the landing stays on screen. Captures and a JSON report go to `/tmp/knightwave-visual`. Set `KNIGHTWAVE_URL` to check the public deployment with any browser script, and `KNIGHTWAVE_CAPTURES` to change the visual output directory.
 
-Review captures live in `docs/screenshots/`. The game is in `src/main.js`, the board in `src/board.js`, soundtrack in `src/audio.js` and movement rules in `src/rules.js`.
+Review captures live in `docs/screenshots/`. The game is in `src/main.js`, the board in `src/board.js`, platform animation rules in `src/platforms.js`, soundtrack in `src/audio.js` and movement rules in `src/rules.js`.
 
 Optional WebMCP state and rotation tools are feature-detected. This browser does not expose a supported WebMCP context, so WebMCP integration validation is unavailable.
